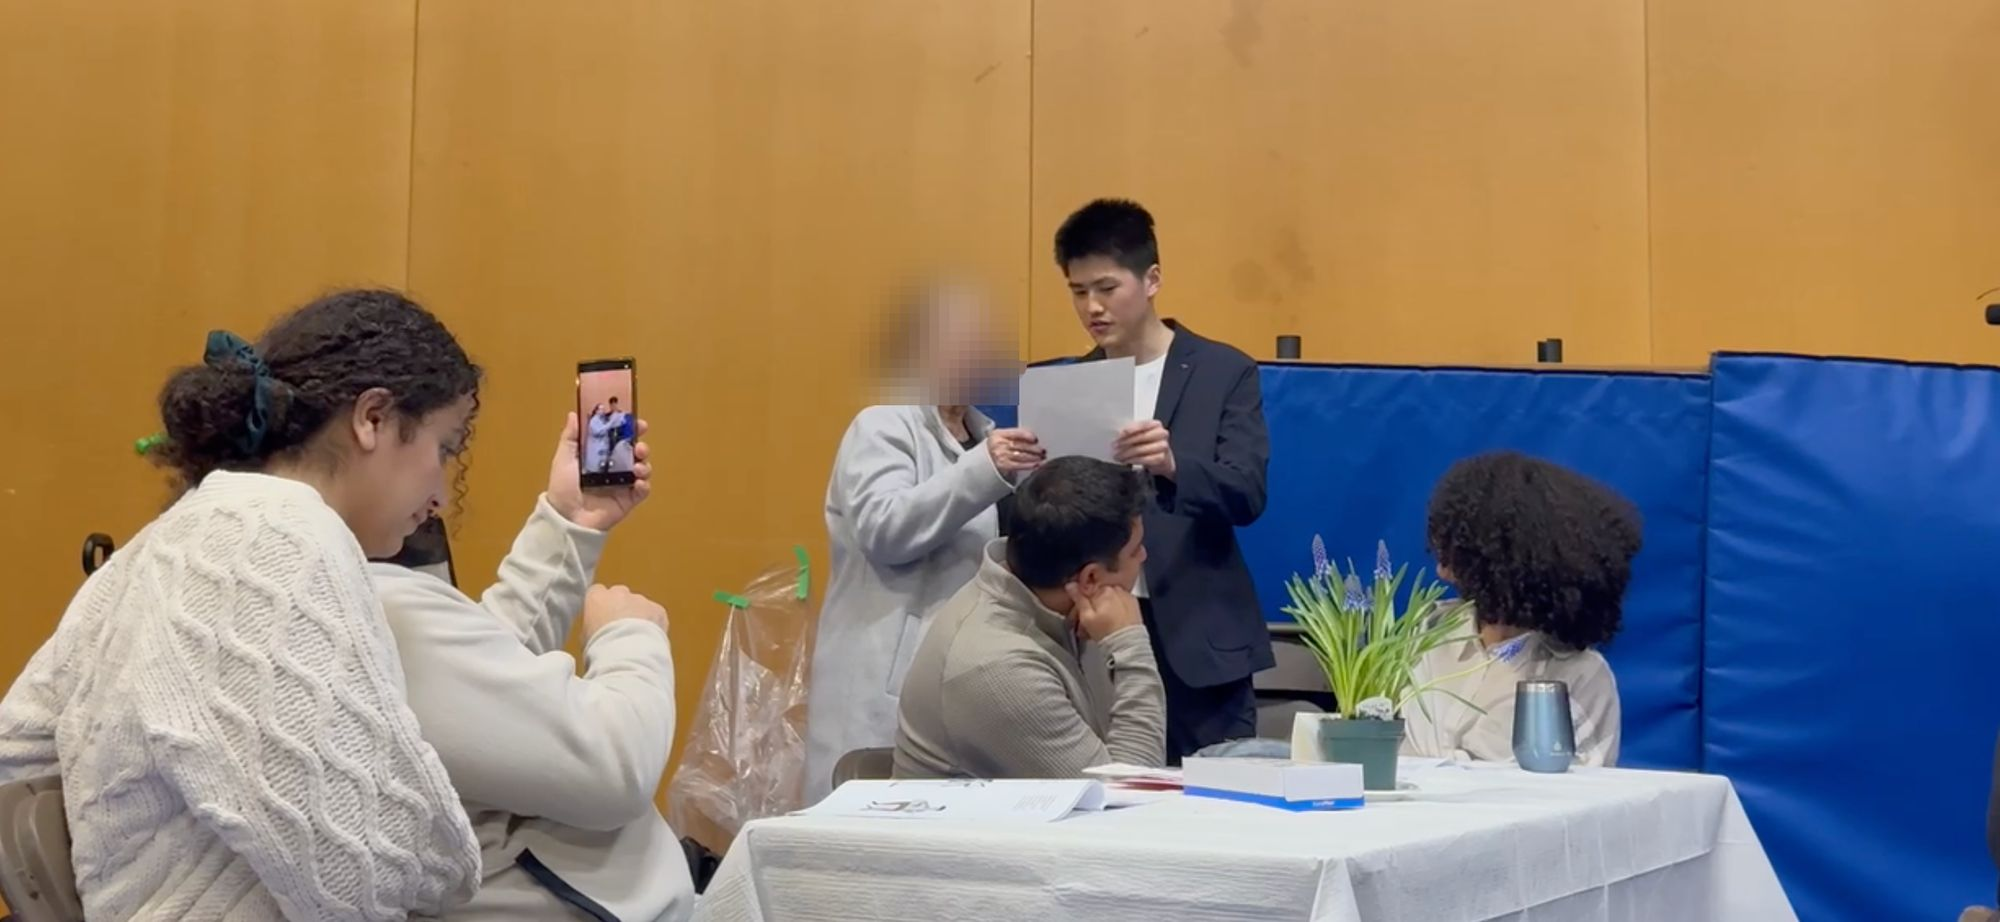
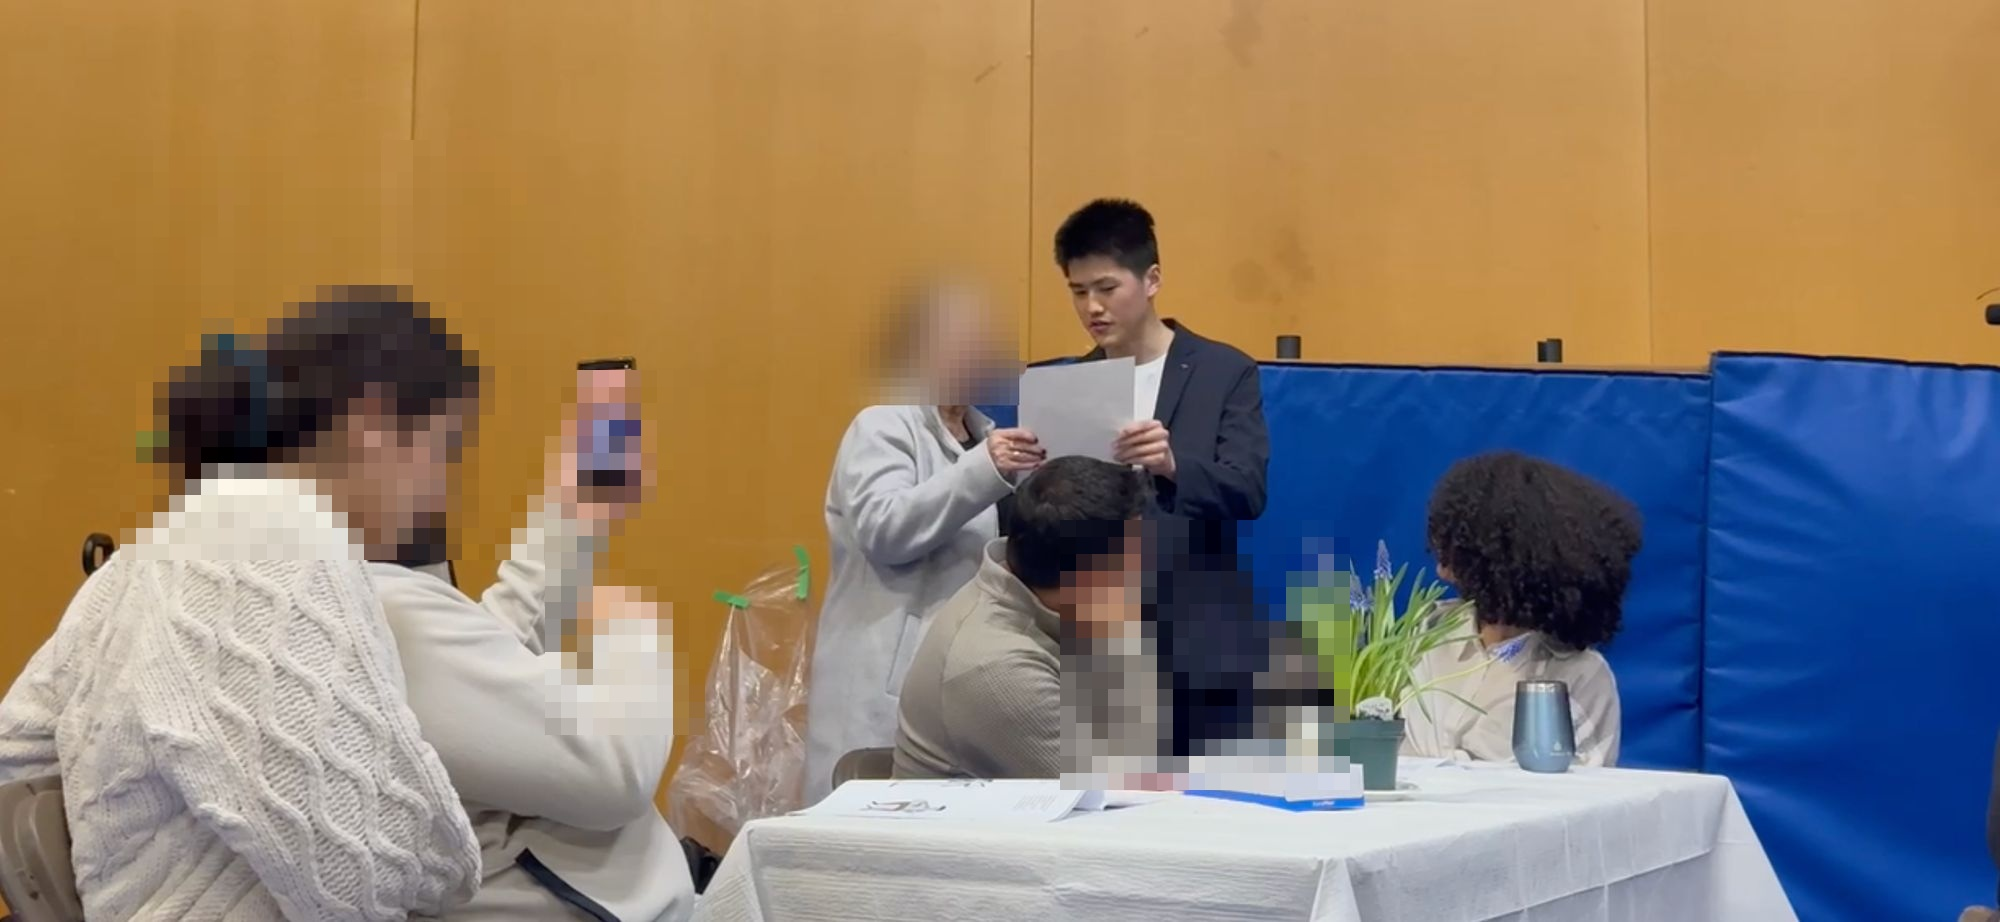
Add files via upload

diff --git a/index.html b/index.html
@@ -1885,8 +1885,7 @@ h1, h2, h3, h4 {
         </p>
         <p>
           The club also gave me a way to give back: we sold baked goods and donated all proceeds to the local 
-          food bank. At home, I cook breakfast for my family every weekend. It's a small ritual, but it's 
-          how I show I care — one plate at a time.
+          food bank. At home, I cook breakfast for my family most weekends. It's a small ritual, but it's my way of showing love.
         </p>
         <div class="kitchen-highlight">
           <h4>My Signature Dish</h4>
@@ -1917,8 +1916,7 @@ h1, h2, h3, h4 {
       <div class="summer-content reveal">
         <p>
           I spent two weeks at Johns Hopkins University in their pre-college program, living in a dorm, 
-          navigating a new city, and taking classes alongside students from across the country. It was my 
-          first time away from home for an extended period — and I loved every minute of it.
+          navigating a new city, and taking classes alongside students from across the country. It was my first real taste of college life — my roommates came from all over the world, we got along wonderfully, and it filled me with confidence for the college years ahead.
         </p>
         <p>
           Beyond academics, what stayed with me was the sense of responsibility: managing my own schedule, 
